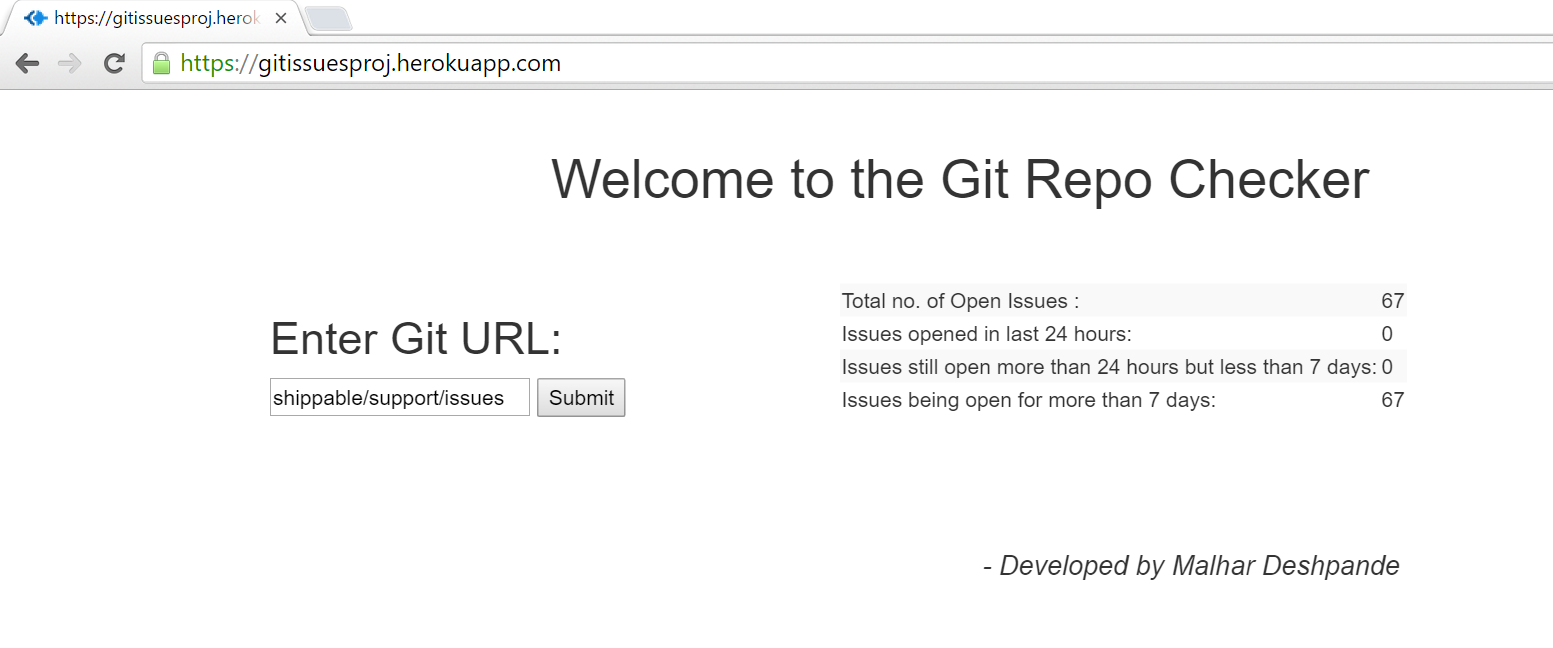
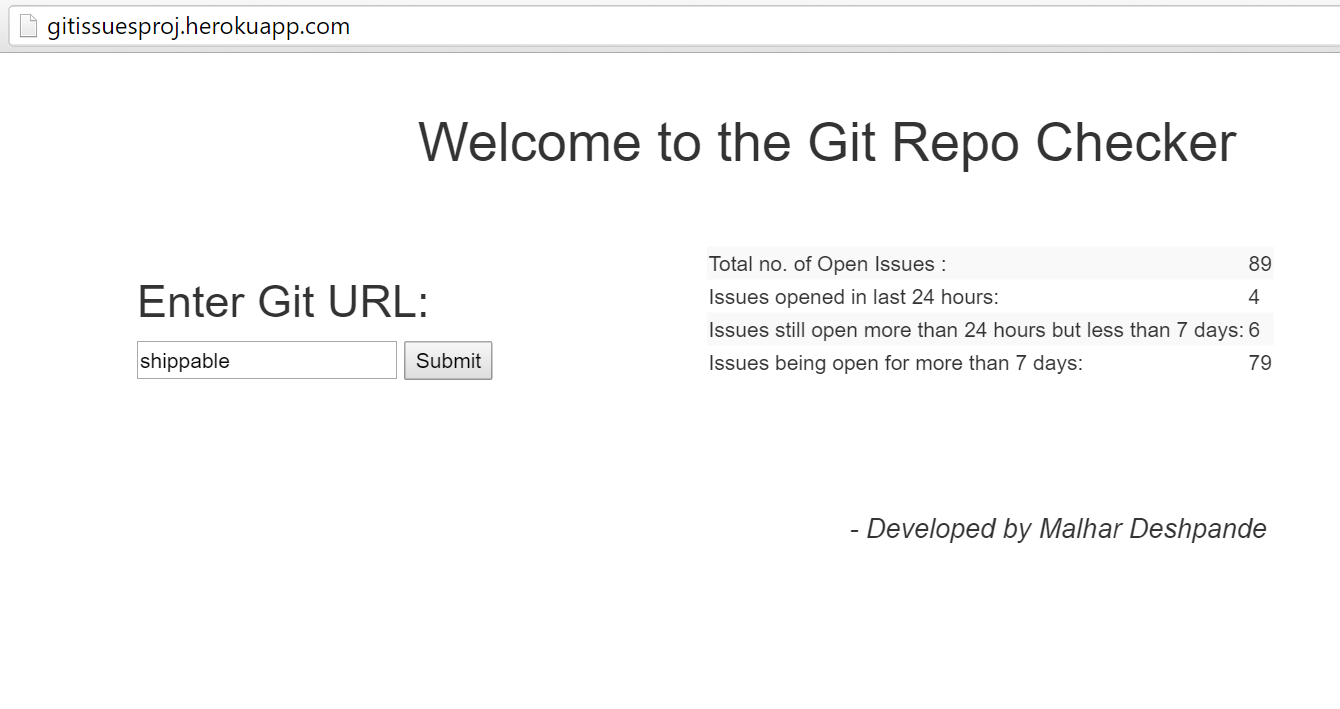
Upadtes-0308-01

diff --git a/README.md b/README.md
@@ -12,7 +12,7 @@ These instructions are based for the following test input link https://github.co
 public repository of Shippable/support/issues
 
 1. As the web app opens, you will see only a text field input with a submit button. 
-2. Enter the input "Shippable/support/issues" in thetext field. 
+2. Enter the input "Shippable" in thetext field. (Only enter the name of the repository) 
 3. Click the submit button 
 4. A table appears on the right side with the analytics. 
 5. If a repository does not exist or if we try to access a private/unauthorized repository following text gets displayed
@@ -49,12 +49,13 @@ Heroku. I have used the NodeJS skeleton from [site](http://www.nodeclipse.org)
 
 ## IMPROVEMENTS THAT CAN BE DONE TO THE WEB APP:
 
-1. Make the code more efficient. To do the timestamp comparisons, I have used a for loop due to which it takes
+1. Support for pagination.
+2. Make the code more efficient. To do the timestamp comparisons, I have used a for loop due to which it takes
    around 4-5 seconds to do operations on the response and display it on the screen. This time can be improved
    by making use of a data structure such as a HashTable which has an efficient lookup time complexity. 
-2. Add angular mechanism to reset the app to default intital state. Right now, after using the web app for the first 
+3. Add angular mechanism to reset the app to default intital state. Right now, after using the web app for the first 
    time, there is no mechanism to return the app to the initial unused state. 
-3. Test the web app for negetive test cases such as <br />
+4. Test the web app for negetive test cases such as <br />
 		i. empty string <br />
 		ii. sequence of numbers or special characters (basically anything else other than a character) <br />
 		iii. invalid length of input <br />
